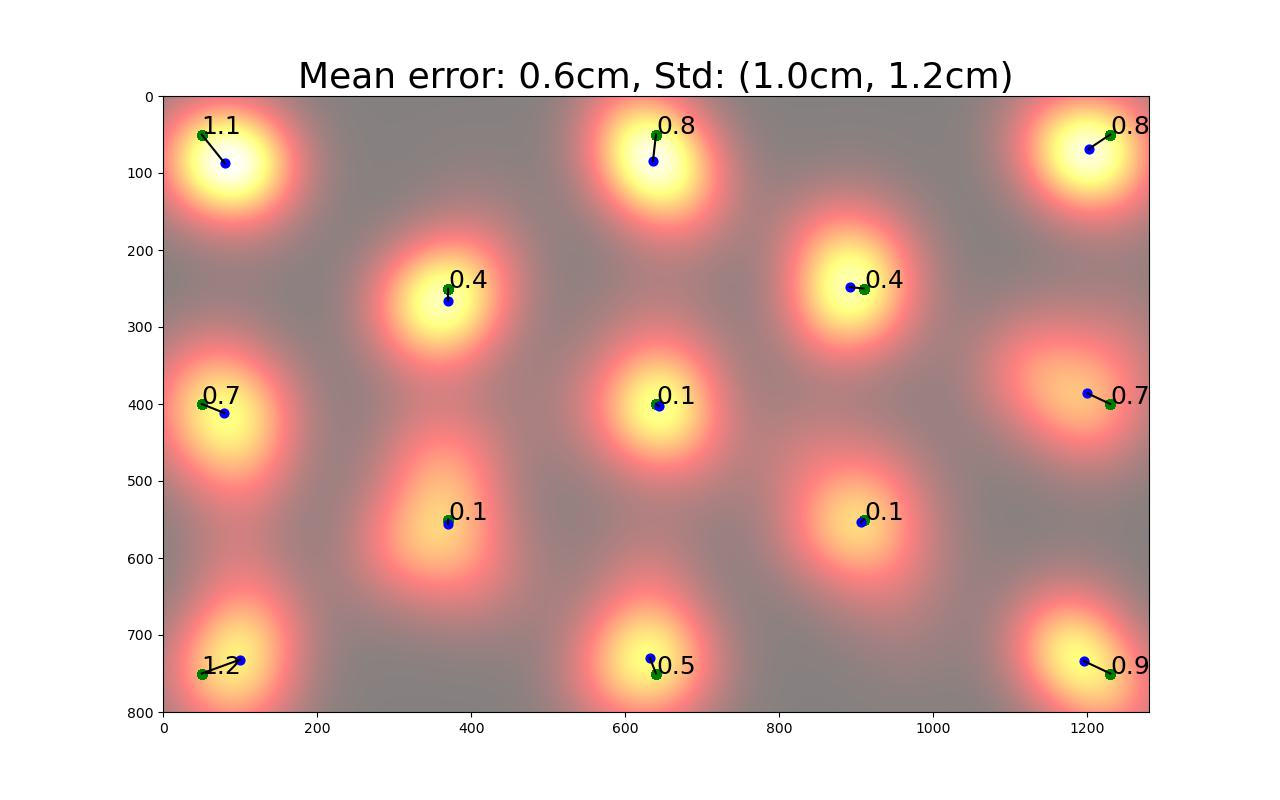
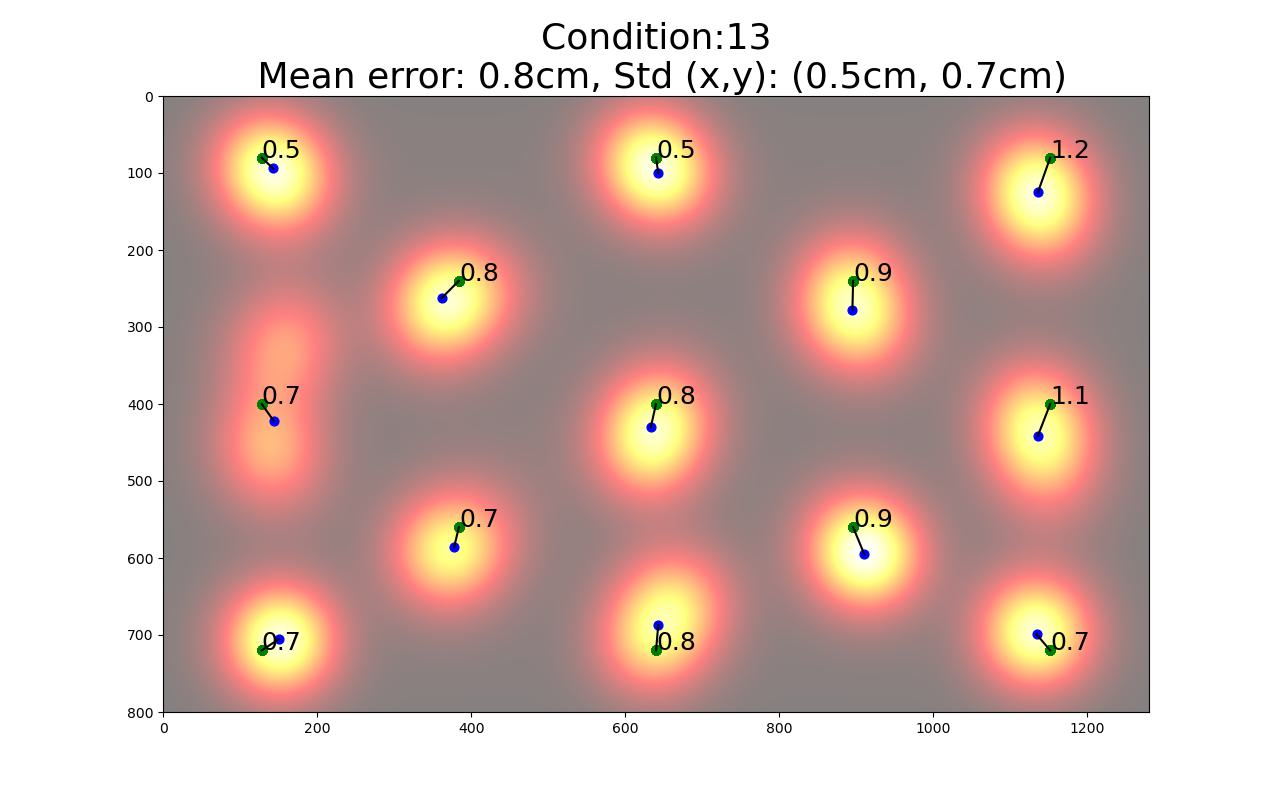
set up analysis before data collection

diff --git a/dataAnalyzeDeepEye2.py b/dataAnalyzeDeepEye2.py
@@ -81,25 +81,26 @@ def dot_error(y_true, y_pred):
     return float(mean_dot_error), df, float(std_dot_error)
 
 
-path_to_folders = 'C:/Users/artem/Dropbox/Appliedwork/CognitiveSolutions/Projects/DeepEye/TechnicalReports/TechnicalReport1/online'
-# path_to_folders = 'D:/Dropbox/Appliedwork/CognitiveSolutions/Projects/DeepEye/TechnicalReports/TechnicalReport1'
+# path_to_folders = 'C:/Users/artem/Dropbox/Appliedwork/CognitiveSolutions/Projects/DeepEye/TechnicalReports/TechnicalReport1/online'
+path_to_folders = 'D:/Dropbox/Appliedwork/CognitiveSolutions/Projects/DeepEye/TechnicalReports/TechnicalReport1/online'
 
+# get all folder names
 folder_names = os.listdir(path_to_folders)
 
 pp_list = []
-
 for fn in folder_names:
-    path = os.path.join(path_to_folders, fn, fn+'_test_all.csv')
-    
-    
+    path = os.path.join(path_to_folders, fn, fn+'_test_all.csv')       
         
     df = pd.read_csv(path)
     
+    # Find the headers via duplicates and use it to split into datasets
+    # Make indices of datasets
     mask_dup = df.duplicated(keep=False)
     idx_dup = df.index[mask_dup == True].tolist()
-    idx_dup[:0] = [-1]
-    idx_dup.extend([df.shape[0]])
+    idx_dup[:0] = [-1] # add lower index
+    idx_dup.extend([df.shape[0]]) # add upper index
     
+    # Use indices to parse datasets
     df_list = []
     count_datasets = 0
     last_numCalibDots = []
@@ -110,10 +111,9 @@ for fn in folder_names:
             a['dataset_num'] = count_datasets
             a['eucl_dist_px_orig'] = np_euclidean_distance(np.array(a[['x','y']]), np.array(a[['user_pred_px_x','user_pred_px_y']]))
             scale_cm_in_px = a.scrW_cm/a.resX
-            a['eucl_dist_cm_orig'] = a.eucl_dist_px_orig * scale_cm_in_px
-       
+            a['eucl_dist_cm_orig'] = a.eucl_dist_px_orig * scale_cm_in_px      
            
-            
+            # Label 25-dot conditions based on preceeding dataset
             if a.numCalibDots.iloc[0] == 25:
                 print(f'last: {last_numCalibDots[-1]}')
                 if last_numCalibDots[-1] == 9:
@@ -124,151 +124,139 @@ for fn in folder_names:
             else:
                 a['condition'] = a.numCalibDots.astype(str)
                 
-            last_numCalibDots.append(a.numCalibDots.iloc[-1]) # log last value
-                
-                   
+            last_numCalibDots.append(a.numCalibDots.iloc[-1]) # log last value                
+            
+            # Accumulate all dataset per subject
             df_list.append(a)
             count_datasets += 1
     
     
-    # if there are more than 4 datasets, I should remove the recalibrated ones
+    # if there are more than 4 datasets, remove the recalibrated ones, pick the last one
     last_numCalibDots = pd.Series(last_numCalibDots)
-    idx_good_datasets = last_numCalibDots.loc[last_numCalibDots.shift(-1) != last_numCalibDots]
-    df_list = [df_list[i] for i in list(idx_good_datasets.index)]
+    idx_good_datasets = last_numCalibDots.loc[last_numCalibDots.shift(-1) != last_numCalibDots] # shift dataset by one row and get indices
+    df_list = [df_list[i] for i in list(idx_good_datasets.index)] # pick only the 4 datasets
+    assert(len(df_list) == 4)
     
+    # Concatenate all datasets per subject
     b = pd.concat(df_list)
-    b['subj_nr'] = fn
     
+    # Add a subj_nr column
+    b['subj_nr'] = fn    
+    
+    # Accumulate datasets across subjects
     pp_list.append(b)
 
-c = pd.concat(pp_list)
-
-# y_true = np.array(a[['x','y']])
-# y_pred = np.zeros(y_true.shape)
-# dist = np_euclidean_distance(y_true, y_pred)
+# Concatenate all subjects in one df
+df_all = pd.concat(pp_list)
 
 
 
-# for name, i in b.groupby('dataset_num'):
-#     plt.figure()
-#     plt.scatter(np.array(i.pred_x), np.array(i.pred_y))
-#     plt.scatter(i.true_x, i.true_y)
-#     plt.gca().invert_yaxis()
-
-
+# Every display resolution is scaled to this one since all dots are drawn in % display size in px
 target_resX = 1280.0
 target_resY = 800.0    
 
-# To do: 
-# Plot separately 9, 13, 25_9, 25_13
-# Print summary statistics per participant
+# To do:
 # How many attempts
 # Filter out failed last attemtps
 
+df_all = df_all.reset_index()
 
-# d = c[c.numCalibDots == 9]
-d = c[c.condition == '13']
-# d = d[d.subj_nr == '2023_04_07_13_59_57']
-# d = d[d.subj_nr == '2023_04_07_13_45_47']
+# df_all = df_all[df_all.numCalibDots == 9]
+# df_all = df_all[df_all.subj_nr == '2023_04_07_13_59_57']
+# df_all = df_all[df_all.subj_nr == '2023_04_07_13_45_47']
 
+# user_predictions_px = np.array(df_all[['user_pred_px_x', 'user_pred_px_y']])
+df_all['user_pred_px_x_scaled'] = df_all.user_pred_px_x/df_all.resX * target_resX
+df_all['user_pred_px_y_scaled'] = df_all.user_pred_px_y/df_all.resY * target_resY
+# ground_truths_px = np.array(df_all[['x','y']])
+df_all['x_scaled'] = df_all.x/df_all.resX * target_resX
+df_all['y_scaled'] = df_all.y/df_all.resY * target_resY
 
-
-
-
-
-# for name, i in d.groupby(['subj_nr','unique_dot']):
-#     median_pred_x = i.pred_x.median()
-#     median_pred_y = i.pred_y.median()
-#     true_x = i.true_x.mean()
-#     true_y = i.true_y.mean()    
-    
-    # plt.figure()
-    # plt.scatter(np.array(median_pred_x), np.array(median_pred_y))
-    # plt.scatter(true_x, true_y)
-    # plt.gca().invert_yaxis()
-    
-# d2 = d.groupby(['subj_nr', 'dotNr'], as_index=False).median()
-
-
-# plt.scatter(d.true_x, d.true_y)
-# plt.scatter(d.pred_x, d.pred_y)
-
-df = d.reset_index()
-
-user_predictions_px = np.array(df[['user_pred_px_x', 'user_pred_px_y']])
-df['user_pred_px_x_scaled'] = df.user_pred_px_x/df.resX * target_resX
-df['user_pred_px_y_scaled'] = df.user_pred_px_y/df.resY * target_resY
-ground_truths_px = np.array(df[['x','y']])
-df['x_scaled'] = df.x/df.resX * target_resX
-df['y_scaled'] = df.y/df.resY * target_resY
-
-
-df['scale_cm_in_px'] = df.scrW_cm.astype(float)/df.resX.astype(float)
-scale_cm_in_px = df.scale_cm_in_px.mean() # average scaling factor
-# scale_cm_in_px = df.scrW_cm.astype(float)[0]/df.resX.astype(float)[0]  
+df_all['scale_cm_in_px'] = df_all.scrW_cm.astype(float)/df_all.resX.astype(float)
+scale_cm_in_px = df_all.scale_cm_in_px.mean() # average scaling factor
+# scale_cm_in_px = df_all.scrW_cm.astype(float)[0]/df_all.resX.astype(float)[0]  
 
 # Get indices of unique dot positions (unique rows)
-u, indices = np.unique(np.array([df.x_scaled, df.y_scaled]).T, axis=0, return_inverse=True)
-df['unique_dot'] = indices
+u, indices = np.unique(np.array([df_all.x_scaled, df_all.y_scaled]).T, axis=0, return_inverse=True)
+df_all['unique_dot'] = indices
 
 
-# heatmap = makeHeat([target_resX, target_resY], user_predictions_px[:,0], user_predictions_px[:,1])
-heatmap = makeHeat([target_resX, target_resY], np.array(df.user_pred_px_x_scaled), np.array(df.user_pred_px_y_scaled))
 
-f, ax = plt.subplots()
-f.set_size_inches(target_resX/100., target_resY/100.)            
-            
-ax.imshow(heatmap, cmap=cm.hot, extent=[0, target_resX, target_resY, 0], alpha = 0.5, aspect='equal')                   
+""" 
+Plotting
 
-# plt.scatter(user_predictions_px[:, 0], user_predictions_px[:, 1], c='r', s=10, alpha=0.5)
-plt.scatter(df.x_scaled, df.y_scaled, c='g', s=40, alpha=0.5)
-            
-# plt.axis('off')            
+"""
 
-median_pred_x = df.groupby('unique_dot').user_pred_px_x_scaled.median()
-median_pred_y = df.groupby('unique_dot').user_pred_px_y_scaled.median()
-std_pred_x = df.groupby('unique_dot').user_pred_px_x_scaled.std()
-std_pred_y = df.groupby('unique_dot').user_pred_px_y_scaled.std()
-true_x = df.groupby('unique_dot').x_scaled.mean()
-true_y = df.groupby('unique_dot').y_scaled.mean() 
+# Iterate per condition
+for name, df in df_all.groupby('condition'):
 
 
-# Plot median errors, lines
-plt.scatter(median_pred_x, median_pred_y, c='b', s=40)
-plt.plot([median_pred_x, true_x], [median_pred_y, true_y], c='black')
+    heatmap = makeHeat([target_resX, target_resY], np.array(df.user_pred_px_x_scaled), np.array(df.user_pred_px_y_scaled))
+    
+    f, ax = plt.subplots()
+    f.set_size_inches(target_resX/100., target_resY/100.)            
+                
+    ax.imshow(heatmap, cmap=cm.hot, extent=[0, target_resX, target_resY, 0], alpha = 0.5, aspect='equal')                   
+    
+    plt.scatter(df.user_pred_px_x_scaled, df.user_pred_px_y_scaled, c='r', s=10, alpha=0.5)
+    plt.scatter(df.x_scaled, df.y_scaled, c='g', s=40, alpha=0.5)
+                
+    # plt.axis('off')            
+    
+    median_pred_x = df.groupby('unique_dot').user_pred_px_x_scaled.median()
+    median_pred_y = df.groupby('unique_dot').user_pred_px_y_scaled.median()
+    std_pred_x = df.groupby('unique_dot').user_pred_px_x_scaled.std()
+    std_pred_y = df.groupby('unique_dot').user_pred_px_y_scaled.std()
+    true_x = df.groupby('unique_dot').x_scaled.mean()
+    true_y = df.groupby('unique_dot').y_scaled.mean() 
+    
+    
+    # Plot median errors, lines
+    plt.scatter(median_pred_x, median_pred_y, c='b', s=40)
+    plt.plot([median_pred_x, true_x], [median_pred_y, true_y], c='black')
+    
+    
+    # calculate the distance between median of all samples (as plotted)
+    dist = np_euclidean_distance(np.array([median_pred_x, median_pred_y]).T, np.array([true_x, true_y]).T)
+    dist_cm = dist *  scale_cm_in_px
+    std_pred_x_cm = std_pred_x * scale_cm_in_px
+    std_pred_y_cm = std_pred_y * scale_cm_in_px
+    plt.title(f'Condition:{df.condition.iloc[0]}\n Mean error: {np.round(dist_cm.mean(),1)}cm, Std (x,y): ({np.round(std_pred_x_cm.mean(),1)}cm, {np.round(std_pred_y_cm.mean(),1)}cm)', fontsize=26)
+    
+    
+    for x,y,e in zip(np.array(true_x), np.array(true_y), np.round(dist_cm, 1)):
+        plt.text(x, y, e, fontsize=18)
 
 
-# # Add text with error per dot
-# err =  np.array(df.groupby('dotNr').eucl_distance.median())
-# err_cm = err * scale_cm_in_px
-# # for x,y,e in zip(np.array(true_x), np.array(true_y), np.round(err_cm, 1)):
-# #     plt.text(x, y, e, fontsize=18)
-
-# # Standard deviation per each dot
-# stdev_err =  np.array(df.groupby('dotNr').eucl_distance.std())
-# stdev_err_cm = stdev_err * scale_cm_in_px
-
-# # convert to cm
-# mean_dot_error_cm = np.round(err_cm.mean(), 1)
-# std_dot_error_cm = np.round(stdev_err_cm.mean(), 1)
-# # plt.title(f'Mean error: {mean_dot_error_cm}cm, Std: {np.round(std_dot_error_cm,1)}cm', fontsize=26)
-
-# calculate the distance between median of all samples (as plotted)
-dist = np_euclidean_distance(np.array([median_pred_x, median_pred_y]).T, np.array([true_x, true_y]).T)
-dist_cm = dist *  scale_cm_in_px
-std_pred_x_cm = std_pred_x * scale_cm_in_px
-std_pred_y_cm = std_pred_y * scale_cm_in_px
-plt.title(f'Mean error: {np.round(dist_cm.mean(),1)}cm, Std: ({np.round(std_pred_x_cm.mean(),1)}cm, {np.round(std_pred_y_cm.mean(),1)}cm)', fontsize=26)
+    # Save plot
+    # plt.savefig(f'calibration{df.condition.iloc[0]}.jpg', dpi=100, pad_inches=0)
 
 
-for x,y,e in zip(np.array(true_x), np.array(true_y), np.round(dist_cm, 1)):
-    plt.text(x, y, e, fontsize=18)
+"""
+Plotting mean E.d. and SD per condition
+"""
+for name, i in df_all.groupby('condition'):
+    
+    # Get median per each unique dot, separately per subject and condition
+    summary_df = i.groupby(['subj_nr', 'condition', 'unique_dot'])[['eucl_dist_px_orig', 'eucl_dist_cm_orig']].median().reset_index()
+    
+    # Aggregate over dots (mean E.d. and SD E.d.)
+    agg_Ed = summary_df.groupby(['subj_nr', 'condition'])[['eucl_dist_px_orig', 'eucl_dist_cm_orig']].mean().reset_index()
+    agg_SD = summary_df.groupby(['subj_nr', 'condition'])[['eucl_dist_px_orig', 'eucl_dist_cm_orig']].std().reset_index()
+    print('\nMean Euclidean distance:')
+    print(agg_Ed)
+    print('\nStandard deviation of Euclidean distances:')
+    print(agg_SD)
+    
+    # Plot euclidean distances per subject
+    plt.figure()
+    plt.title(f'Condition:{i.condition.iloc[0]}\nEuclidean distances per subject')
+    plt.scatter(np.ones(agg_Ed.eucl_dist_cm_orig.size),agg_Ed.eucl_dist_cm_orig)
+    plt.scatter(1,agg_Ed.eucl_dist_cm_orig.mean())
+    
+    # Plot SD per subject
+    plt.figure()
+    plt.title(f'Condition:{i.condition.iloc[0]}\nSD of Euclidean distances per subject')
+    plt.scatter(np.ones(agg_SD.eucl_dist_cm_orig.size),agg_SD.eucl_dist_cm_orig)
+    plt.scatter(1,agg_SD.eucl_dist_cm_orig.mean())
 
-
-# Save plot
-# plt.savefig('calibration13.jpg', dpi=100, pad_inches=0)
-
-summary_df = df.groupby(['subj_nr', 'condition', 'unique_dot'])[['eucl_dist_px_orig', 'eucl_dist_cm_orig']].median().reset_index()
-
-summary_df.groupby(['condition', 'unique_dot'])[['eucl_dist_px_orig', 'eucl_dist_cm_orig']].mean().reset_index()
-summary_df.groupby(['condition', 'unique_dot'])[['eucl_dist_px_orig', 'eucl_dist_cm_orig']].mean().reset_index()
